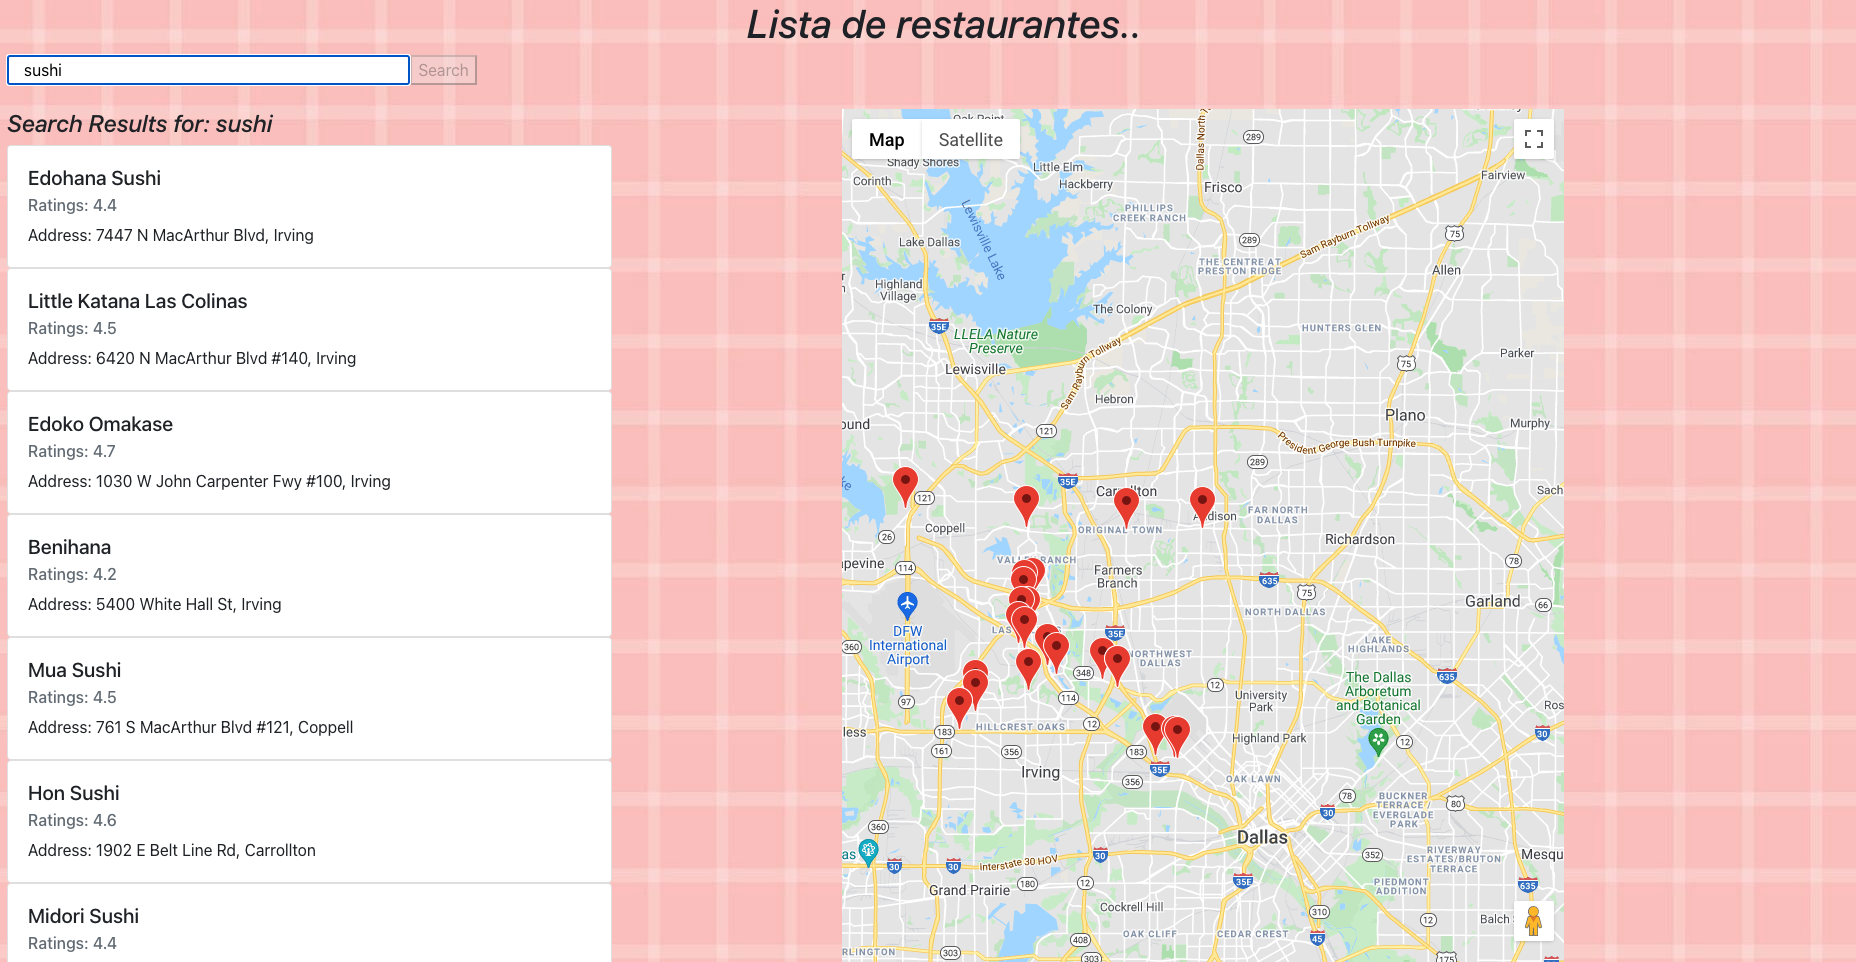
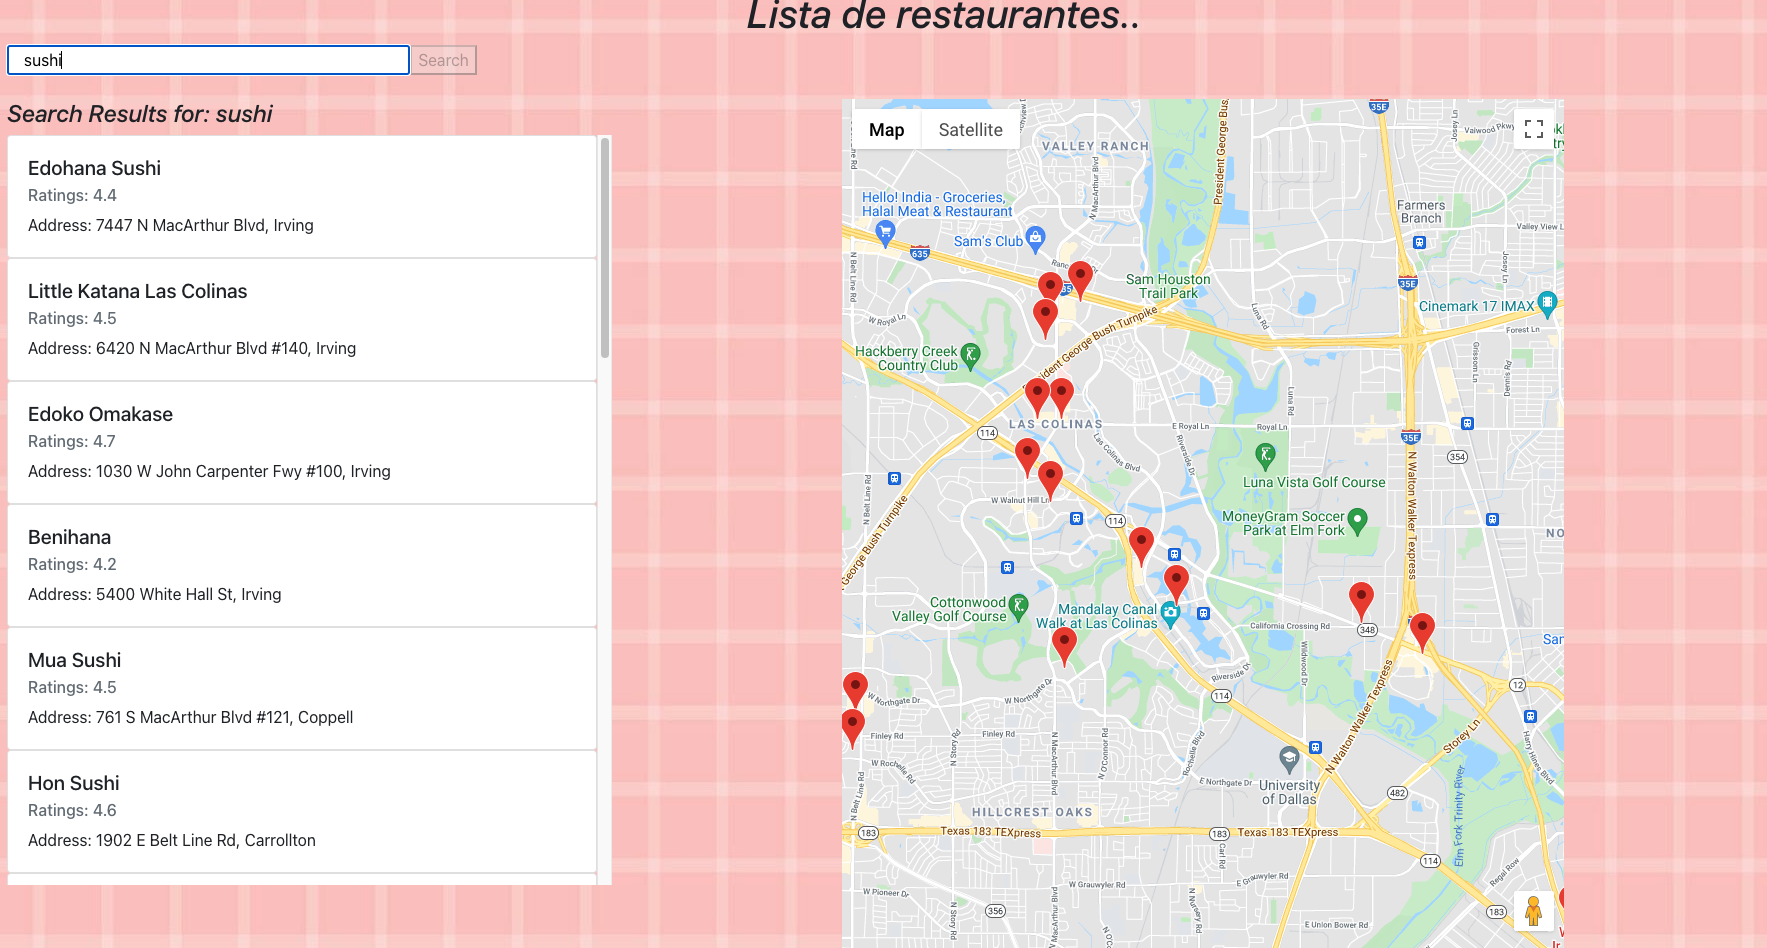
started working on scroll bar

diff --git a/src/components/Results.js b/src/components/Results.js
@@ -12,16 +12,18 @@ export default class Results extends Component {
         return (
             <div>
                 <h4><i>Search Results for: {this.props.searchQuery}</i></h4>
-                {restaurants && restaurants.map((restaurant) => (
-                    <div className="card">
-                        <div className="card-body">
-                            <h5 className="card-title">{restaurant.name}</h5>
-                            <h6 className="card-subtitle mb-2 text-muted">Ratings: {restaurant.rating}</h6>
-                            <p className="card-text">Address: {restaurant.vicinity}</p>
+                <div style={{"flex": "2", "height": "750px", "overflow-y": "scroll"}}>
+                    {restaurants && restaurants.map((restaurant) => (
+                        <div className="card">
+                            <div className="card-body">
+                                <h5 className="card-title">{restaurant.name}</h5>
+                                <h6 className="card-subtitle mb-2 text-muted">Ratings: {restaurant.rating}</h6>
+                                <p className="card-text">Address: {restaurant.vicinity}</p>
+                            </div>
                         </div>
-                    </div>
-                ))
-                }     
+                    ))
+                    }
+                </div>     
             </div>
         )
     }

diff --git a/public/index.html b/public/index.html
@@ -14,8 +14,7 @@
   <style>
     body {
       background-image: url('images/background.jpeg');
-      background-repeat: no-repeat;
-      
+      background-repeat: no-repeat;      
     }
   </style>
   <title>Restaurants</title>
